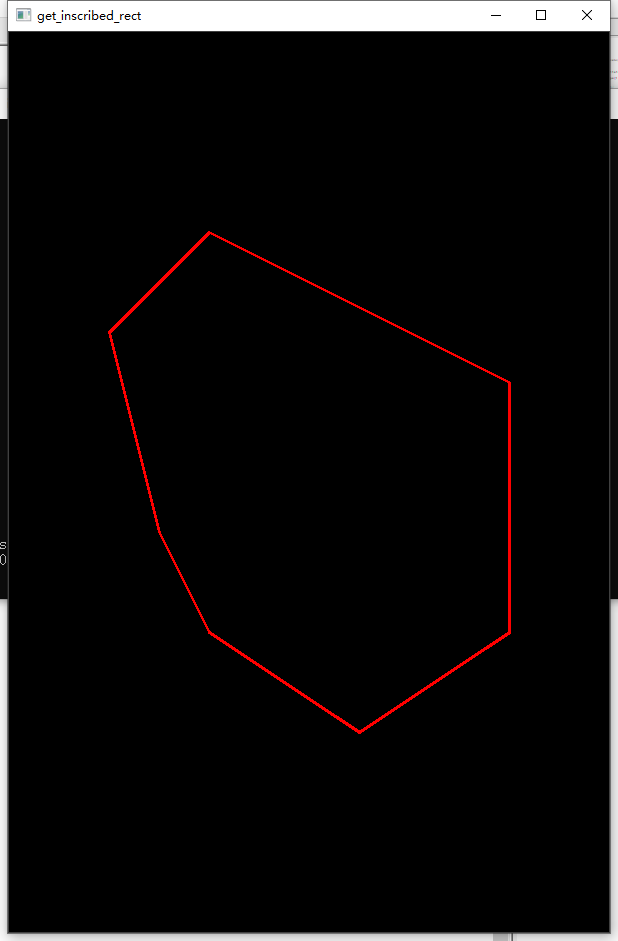
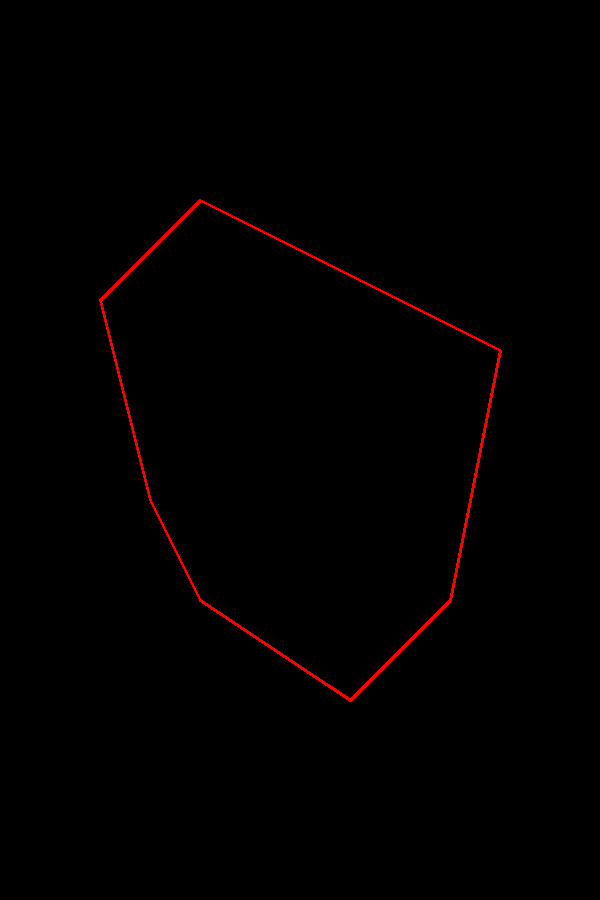
修改测试顶点

diff --git a/inscribed_rect.py b/inscribed_rect.py
@@ -149,6 +149,13 @@ def is_subarea_in_polygon(polygon, subarea):
 	return False
 	
 #enddef
+
+
+def get_rects_in_matrix(matrix):
+	rects = []
+	
+	return rects
+#endif
 			
 def get_inscribed_rect(points):
 
@@ -306,8 +313,9 @@ def get_inscribed_rect(points):
 	
 	
 	## 所有网格求交得到子矩形集合，并判断子矩形是否在多边形之内，生成判断集合矩阵
-	matrix_bool = []
-	matrix_vertex = []
+	matrix_bool = [] #是否在多边形内
+	matrix_vertex = [] #矩形的顶点
+	
 	
 	count_lines_h = len(lines_h)
 	count_lines_v = len(lines_v)
@@ -366,6 +374,7 @@ def get_inscribed_rect(points):
 				
 			else:
 				matrix_bool[i-1].append(0)
+				
 			#endif
 
 			
@@ -384,46 +393,86 @@ def get_inscribed_rect(points):
 	
 	#endfor
 	
+	
+	#求矩形数组
 	#矩形数组[左上角矩形左上角顶点xy, 右下角矩形右下角顶点, 面积]
-	# R =[ [x1,y1,x2,y2,s], [x1,y1,x2,y2,s], [x1,y1,x2,y2,s] ... ]
-	R = []
+	#矩形为左上角的最大矩形
+	# array_rect =[ [x1,y1,x2,y2,s], [x1,y1,x2,y2,s], [x1,y1,x2,y2,s] ... ]
+	array_rect = [] 
 	
-	'''
 	
-	h_size = len(matrix_bool)
-	v_size = len(matrix_bool[0])
+	v_size = len(matrix_bool)
+	h_size = len(matrix_bool[0])
 	
-	print('matrix_bool')
-	for i in range(h_size-1):
-		
-		for j in range(v_size-1):
+
+	for i in range(v_size):
+				
+		for j in range(h_size):
 			
 			#当前矩形
 			v = matrix_bool[i][j]
-			
-			#横向寻找
-			#纵向寻找
-			v_right = matrix_bool[i][j+1]
-			v_down = matrix_bool[i+1][j]
-			
+
 			rect = matrix_vertex[i][j]
 			
 			pt1 = rect[0]
 			pt2 = rect[1]
 			
-			if v == 1 and v_right == 1 and v_down == 1: 
 			
-				cv2.rectangle(canvas, (pt1[0]+2, pt1[1]+2), (pt2[0]-2, pt2[1]-2), (50, 150, 1000), -1)
-			
-			else:
+			'''
+			if v == 0 : 
 				cv2.rectangle(canvas, (pt1[0]+2, pt1[1]+2), (pt2[0]-2, pt2[1]-2), (50, 50, 50), -1)
+			else:
+				cv2.rectangle(canvas, (pt1[0]+2, pt1[1]+2), (pt2[0]-2, pt2[1]-2), (50, 150, 1000), -1)
 			#endif
+			
 			cv2.imshow('get_inscribed_rect', canvas)
 			cv2.waitKey(0)
+			'''
+			
+			#跳过空值
+			if v == 0:
+				continue
+			#endif
+			
+			#找最大宽度和高度
+			max_w = 1
+			max_h = 1
+			
+			#横向查找,最远的矩形跨度w赋值为max_w，如果这个w<max_w，则更新max_w
+			
+			w = 1
+			for m in range(j+1, h_size):
+				if matrix_bool[i][m] == 1:
+					w = w + 1
+				else:
+					break
+				#endif
+			#endfor
+			if w > max_w:
+				max_w = w
+			#endif
+			print("row i(%d) , col j(%d) max_w=%d" % (i, j, max_w))
+			
+			'''
+			#纵向每行确认相同宽度，遇到0则终止查找
+			for n in range(i, max_w):
+				if matrix_bool[n][j] == 1:
+					h = h + 1
+				else:
+					break
+				#endif
+			#endfor
+			'''
+			
+			max_rect = [0,0,0,0,0]
+			array_rect.append(max_rect)
+			
+			
+			
 		#endfor
 		
 	#endfor
-	'''
+	
 
 
 	cv2.destroyAllWindows()
@@ -432,7 +481,7 @@ def get_inscribed_rect(points):
 #enddef
 
 
-points = [(100,300), (200,200), (500, 350), (500, 600), (350, 700), (200, 600), (150, 500)]
+points = [(100,300), (200,200), (500, 350), (450, 600), (350, 700), (200, 600), (150, 500)]
 
 print(points)
 r = get_inscribed_rect(points)
